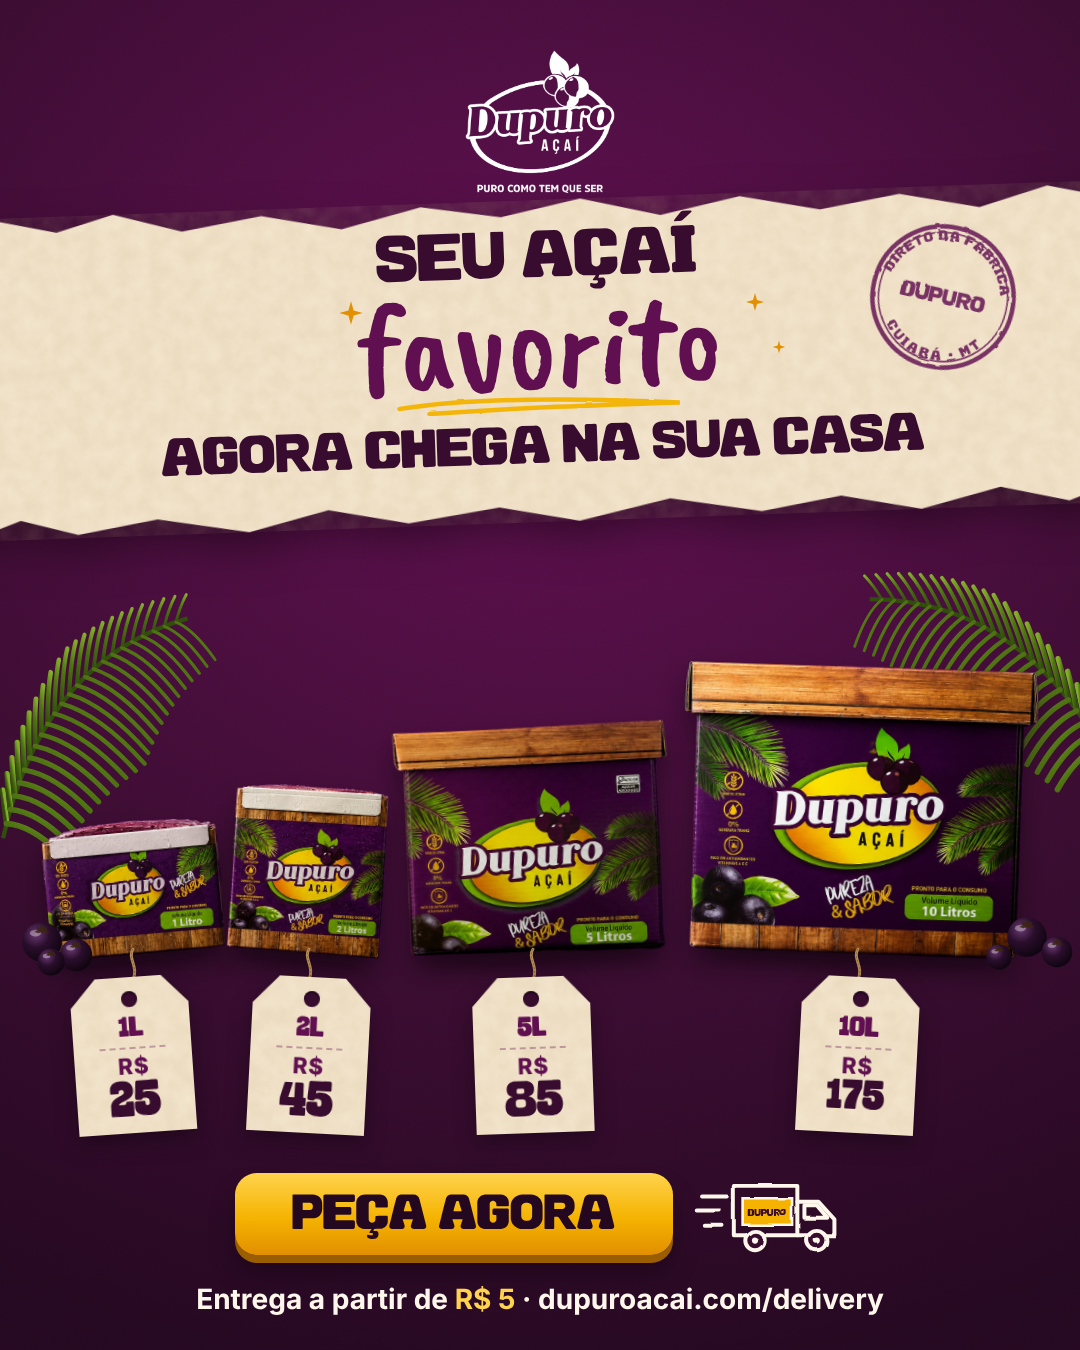
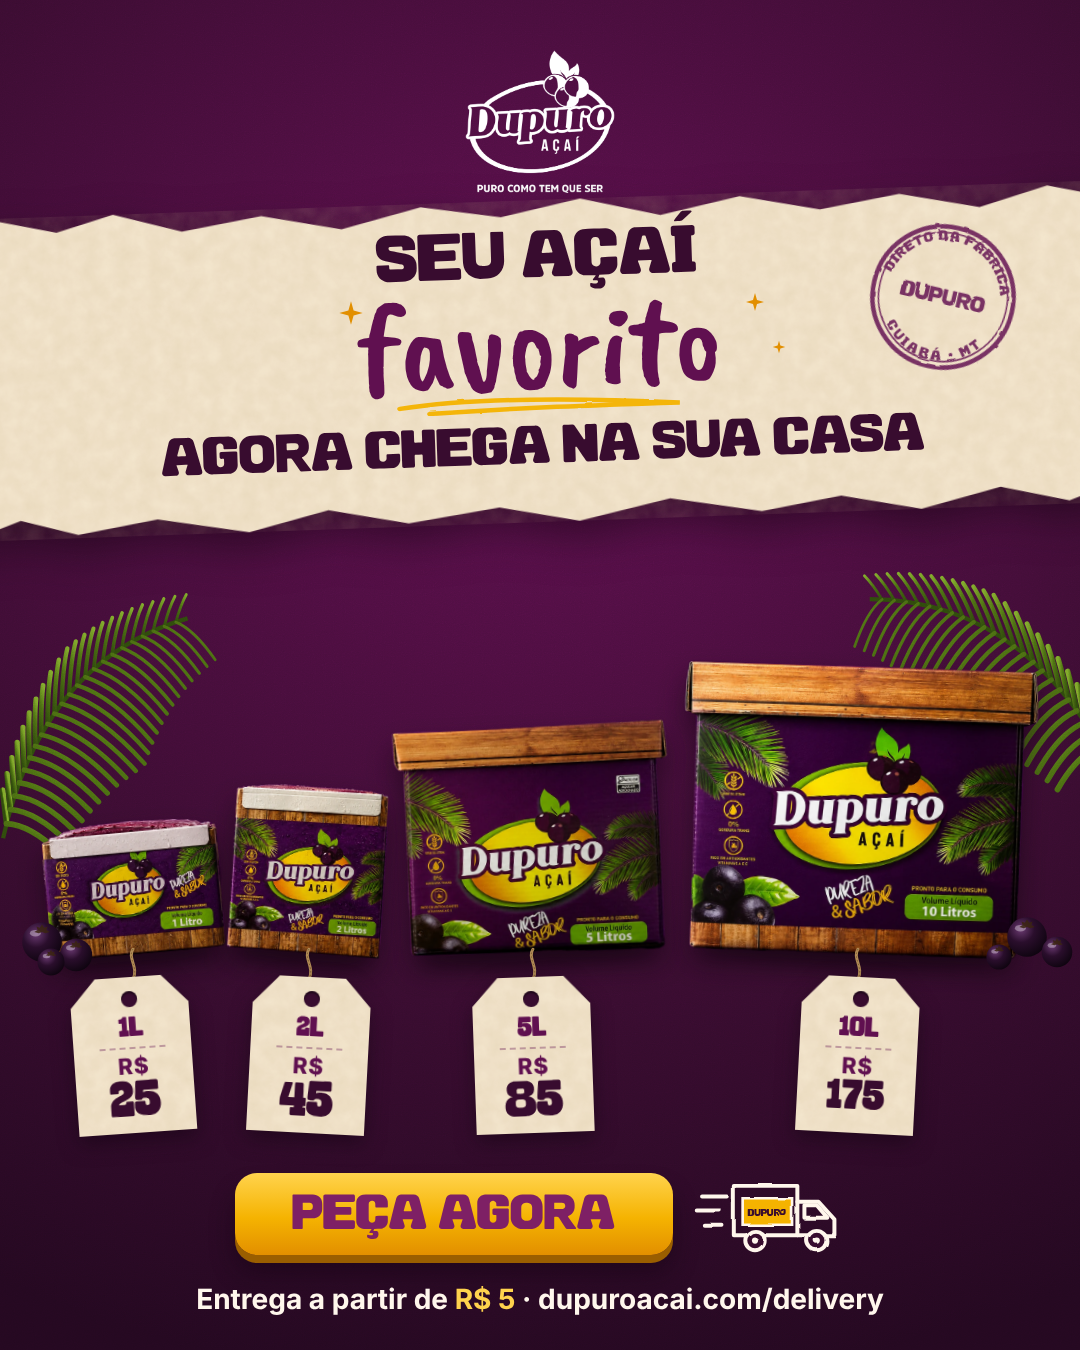
Anúncio v2: letra do 'Peça agora' em roxo médio (#7E2065), escolha do Kayo
Claude-Session: https://claude.ai/code/session_01FD3K2dUiQKyTzg2suxj9tU

Changed region(s): [[0.275, 0.8711, 0.5806, 0.9333]]

diff --git a/marketing/anuncios/delivery-v2/peca.css b/marketing/anuncios/delivery-v2/peca.css
@@ -34,7 +34,7 @@ body { font-family:'Inter',sans-serif; color:var(--cream); position:relative;
 .i1 .caixa { transform:rotate(-5deg); } .i2 .caixa { transform:rotate(3.5deg); } .i5 .caixa { transform:rotate(-2.5deg); } .i10 .caixa { transform:rotate(2deg); }
 .sombra { position:absolute; bottom:-10px; left:8%; right:8%; height:22px; border-radius:50%; background:rgba(10,2,8,.45); filter:blur(8px); z-index:-1; }
 .rodape { position:absolute; left:0; right:0; top:var(--rodape-y); text-align:center; }
-.cta { display:inline-block; font-family:'Klinko'; text-transform:uppercase; font-size:var(--cta); color:var(--roxo-950);
+.cta { display:inline-block; font-family:'Klinko'; text-transform:uppercase; font-size:var(--cta); color:var(--roxo-500);
   padding:.36em 1.25em .28em; border-radius:22px; background:linear-gradient(180deg,var(--gold-soft),var(--gold) 55%,var(--gold-strong));
   box-shadow:0 8px 0 #9A5E00, 0 18px 24px rgba(18,3,15,.45); }
 .info { margin-top:24px; font-size:var(--info); font-weight:700; color:var(--cream); }
